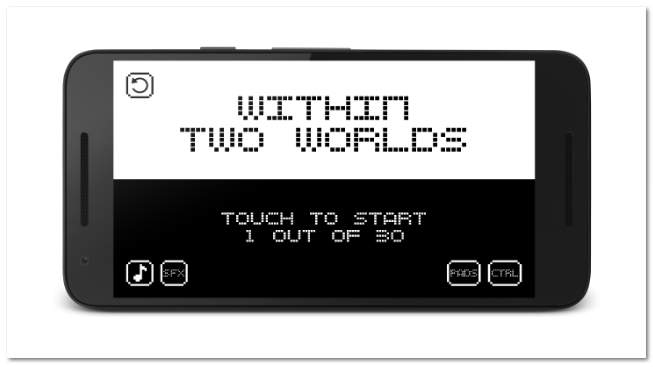
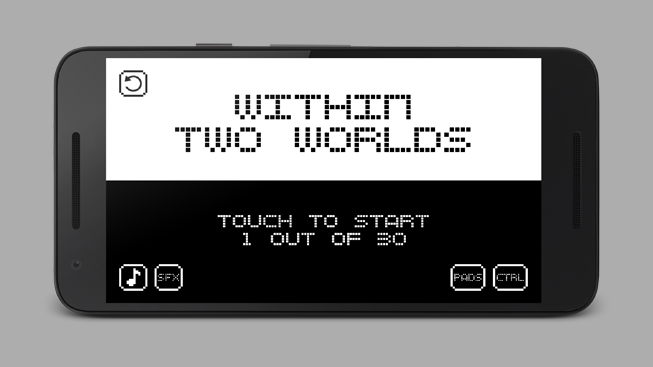
Added Images

diff --git a/index.html b/index.html
@@ -37,25 +37,25 @@
           <hr>
           <h2 class="heading">Projects</h2>
 
+          <h3 class="project_name">Tv Next - TV Series Tracker</h3>
+          <img class="hidden_image" src="images/tvnext.png" alt="test"/>
+          <p class="displays">
+            <img class="project_image" src="images/tvnext.png" alt="tvnext" width=340 height=190/>
+            It is the systematic study of the feasibility, structure, expression, and mechanization of the methodical procedures processing, storage, communication of, and access to information. It is the systematic study of the feasibility, structure, expression, and mechanization of the methodical procedures processing, storage, communication of
+          </p>
+
+          <h3 class="project_name">Quick Remind - Reminder App</h3>
+          <img class="hidden_image" src="images/quickremind.png" alt="test"/>
+          <p class="displays">
+            <img class="project_image" src="images/quickremind.png" alt="quickremind" width=340 height=190/>
+            It is the systematic study of the feasibility, structure, expression, and mechanization of the methodical procedures processing, storage, communication of, and access to information. It is the systematic study of the feasibility, structure, expression, and mechanization of the methodical procedures processing, storage, communication of
+          </p>
+
           <h3 class="project_name">Within Two Worlds</h3>
           <img class="hidden_image" src="images/wtworlds.png" alt="wtworlds"/>
           <p class="displays">
             <img class="project_image" src="images/wtworlds.png" alt="wtworlds" width=340 height=190/>
-            It is the systematic study of the feasibility, structure, expression, and mechanization of the methodical procedures processing, storage, communication of, and access to information. It is the systematic study of the feasibility, structure, expression, and mechanization of the methodical procedures processing, storage, communication of, and access to information. It is the systematic study of the feasibility, structure, expression, and mechanization of the methodical procedures processing, storage, communication of, and access to information.
-          </p>
-
-          <h3 class="project_name">TestingSection</h3>
-          <img class="hidden_image" src="images/picture.png" alt="test"/>
-          <p class="displays">
-            <img class="project_image" src="images/picture.png" alt="test"/>
-            It is the systematic study of the feasibility, structure, expression, and mechanization of the methodical procedures processing, storage, communication of, and access to information. It is the systematic study of the feasibility, structure, expression, and mechanization of the methodical procedures processing, storage, communication of, and access to information. It is the systematic study of the feasibility, structure, expression, and mechanization of the methodical procedures processing, storage, communication of, and access to information.
-          </p>
-
-          <h3 class="project_name">TestingSection</h3>
-          <img class="hidden_image" src="images/picture.png" alt="test"/>
-          <p class="displays last">
-            <img class="project_image" src="images/picture.png" alt="test"/>
-            It is the systematic study of the feasibility, structure, expression, and mechanization of the methodical procedures processing, storage, communication of, and access to information. It is the systematic study of the feasibility, structure, expression, and mechanization of the methodical procedures processing, storage, communication of, and access to information. It is the systematic study of the feasibility, structure, expression, and mechanization of the methodical procedures processing, storage, communication of, and access to information.
+            It is the systematic study of the feasibility, structure, expression, and mechanization of the methodical procedures processing, storage, communication of, and access to information. It is the systematic study of the feasibility, structure, expression, and mechanization of the methodical procedures processing, storage, communication of
           </p>
         </div>
       </div>
@@ -71,7 +71,6 @@
           <a href="https://github.com/stevetcm">
             <img class="select_image" src="images/github_logo.png" alt="github_logo"/>
           </a>
-          <img class="select_image" src="images/picture.png" alt="test" width=100 height=100/>
         </div>
       </div>
 

diff --git a/css/page.css b/css/page.css
@@ -84,6 +84,7 @@ h3 {
 }
 
 .hidden_image{
+	box-shadow: 5px 5px 5px grey;
 	display: none;
 }
 
@@ -100,6 +101,7 @@ h3 {
 
 .project_image {
 	margin: 0px 45px 0px 0px;
+	box-shadow: 5px 5px 5px grey;
 	float:left;
 }
 
